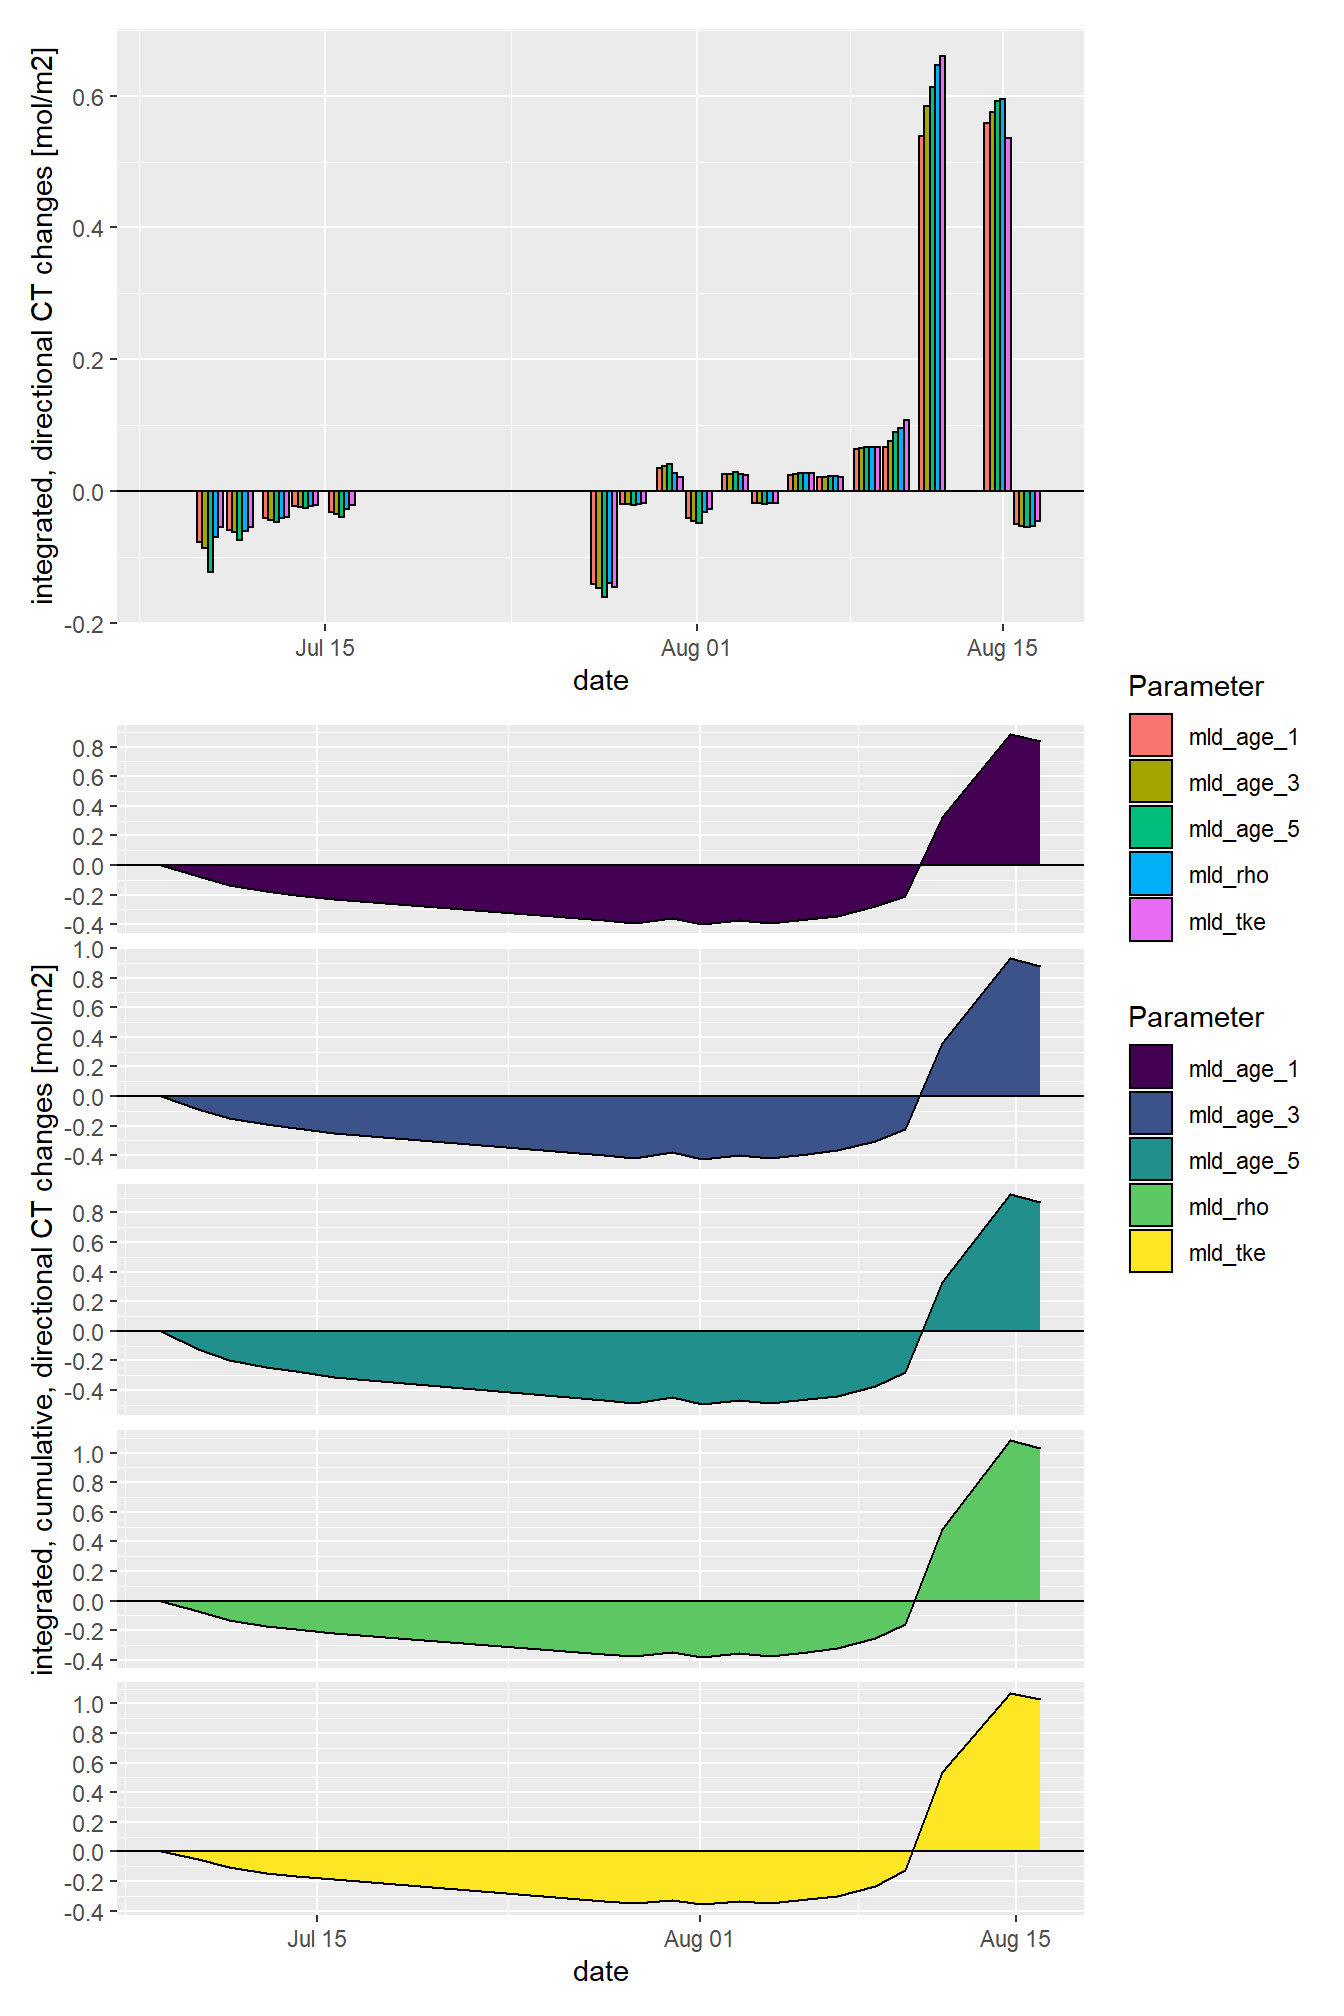
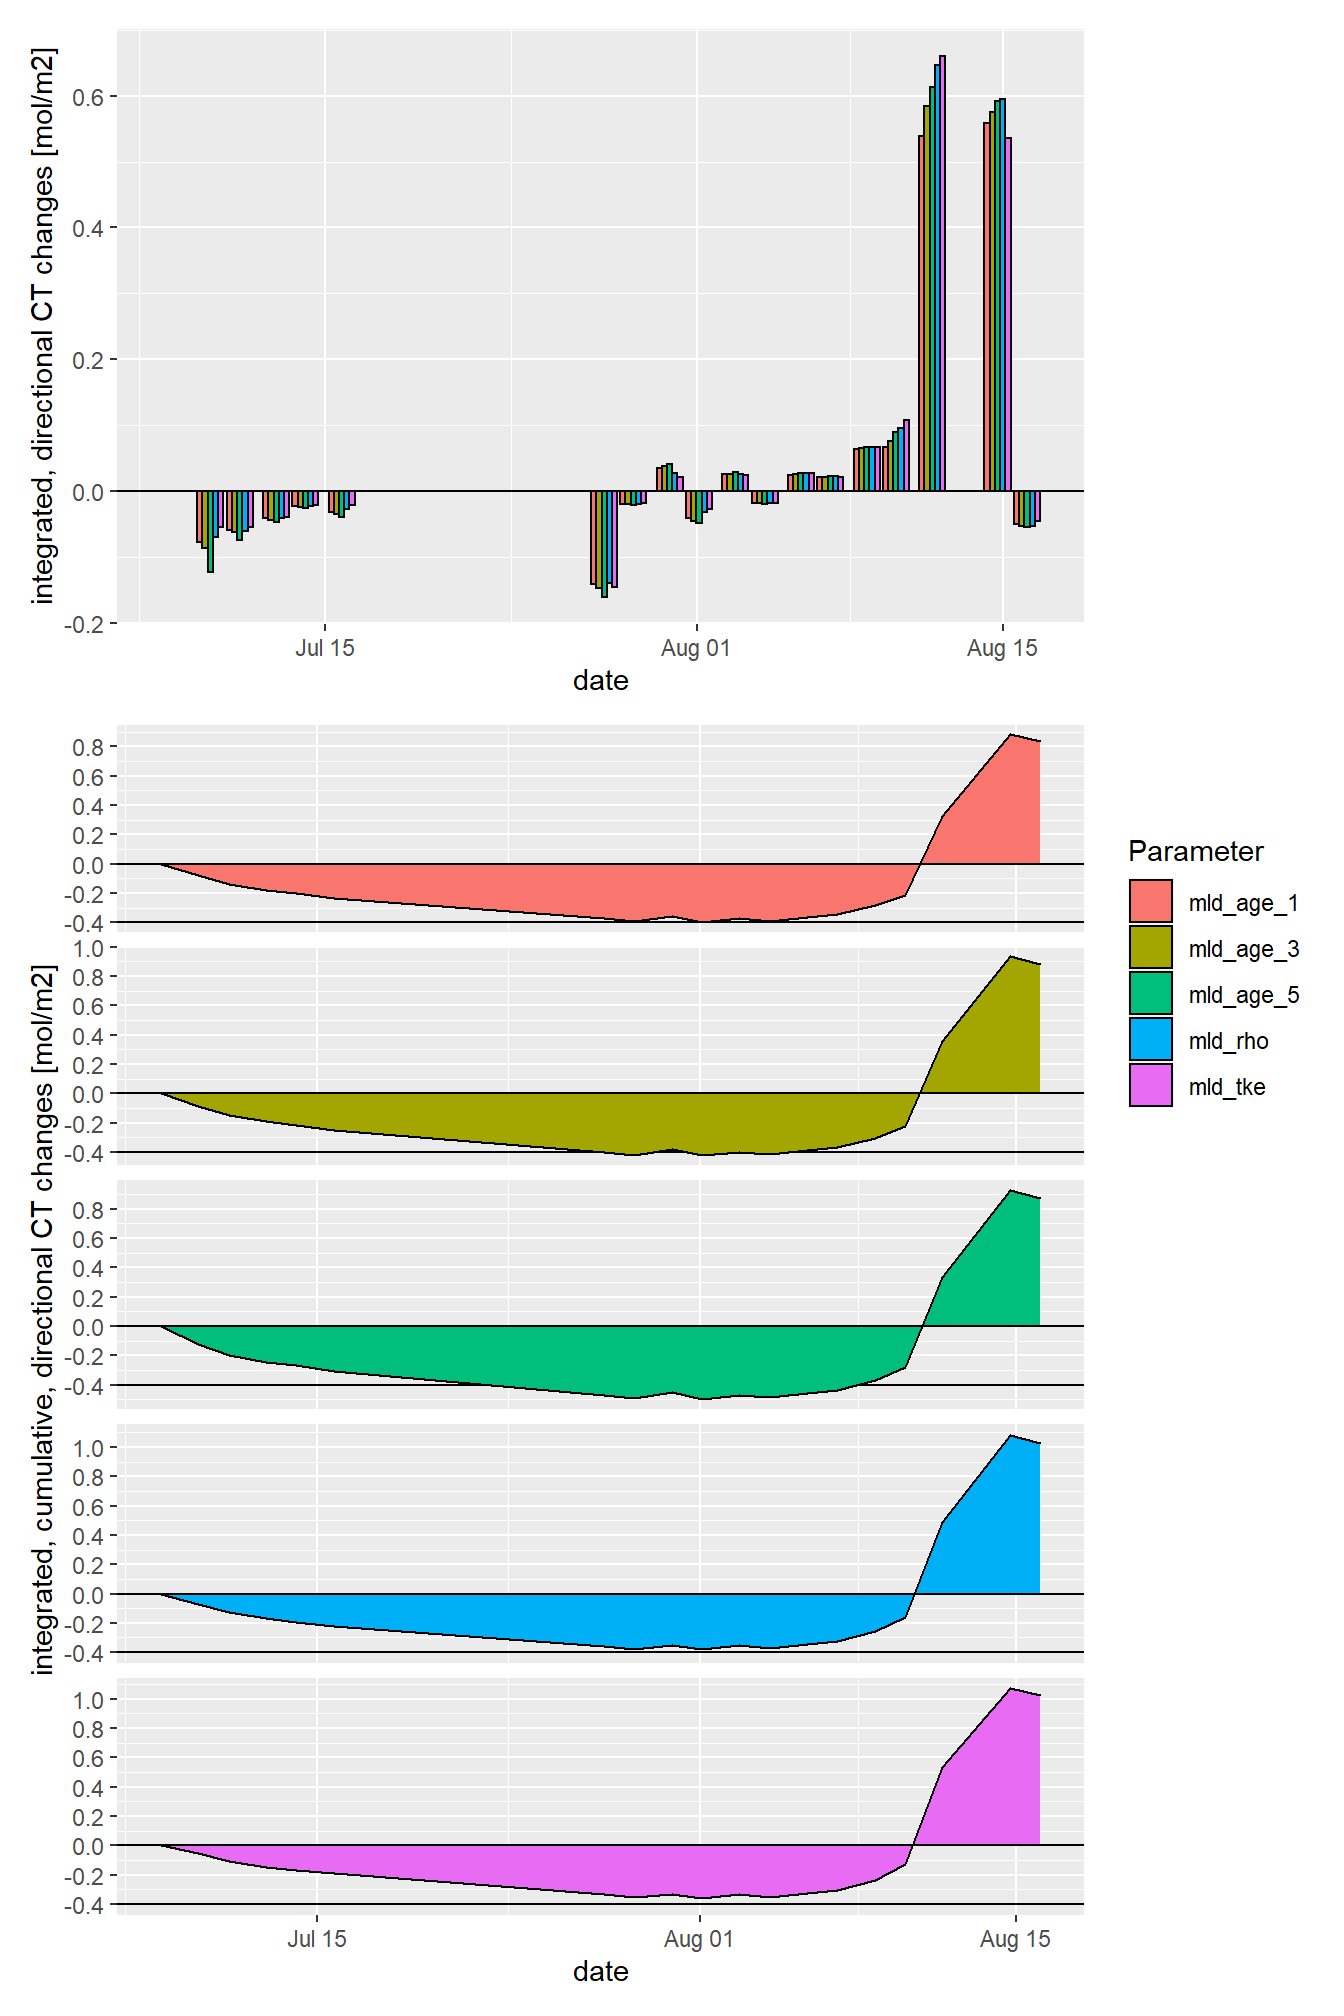
Build site.

diff --git a/docs/Finnmaid+GETM.html b/docs/Finnmaid+GETM.html
@@ -560,10 +560,10 @@ This reproducible <a href="http://rmarkdown.rstudio.com">R Markdown</a> analysis
 <div class="panel panel-default">
 <div class="panel-heading">
 <p class="panel-title">
-<a data-toggle="collapse" data-parent="#workflowr-checks" href="#strongRepositoryversionstrongahrefhttpsgithubcomjensdanielmuellerBloomSailtree5f33d21b9a22a1074537c1c3e4600f842a6c1a98targetblank5f33d21a"> <span class="glyphicon glyphicon-ok text-success" aria-hidden="true"></span> <strong>Repository version:</strong> <a href="https://github.com/jens-daniel-mueller/BloomSail/tree/5f33d21b9a22a1074537c1c3e4600f842a6c1a98" target="_blank">5f33d21</a> </a>
+<a data-toggle="collapse" data-parent="#workflowr-checks" href="#strongRepositoryversionstrongahrefhttpsgithubcomjensdanielmuellerBloomSailtree9e0c0d7d35bd36513864d62c569db3508e6478b8targetblank9e0c0d7a"> <span class="glyphicon glyphicon-ok text-success" aria-hidden="true"></span> <strong>Repository version:</strong> <a href="https://github.com/jens-daniel-mueller/BloomSail/tree/9e0c0d7d35bd36513864d62c569db3508e6478b8" target="_blank">9e0c0d7</a> </a>
 </p>
 </div>
[2 lines of base64/hex data omitted]
 <div class="panel-body">
 <p>
 Great! You are using Git for version control. Tracking code development and connecting the code version to the results is critical for reproducibility. The version displayed above was the version of the Git repository at the time these results were generated. <br><br> Note that you need to be careful to ensure that all relevant files for the analysis have been committed to Git prior to generating the results (you can use <code>wflow_publish</code> or <code>wflow_git_commit</code>). workflowr only checks the R Markdown file, but you know if there are other scripts or data files that it depends on. Below is the status of the Git repository when the results were generated:
@@ -1052,9 +1052,9 @@ NCP_MLD %&gt;%
 p_iNCPcum &lt;-  NCP_MLD %&gt;% 
   ggplot(aes(date_time,  NCP_cum, 
              fill= Parameter))+
+  geom_hline(yintercept = -0.4)+
   geom_area(position = &quot;identity&quot;, col=&quot;black&quot;)+
   geom_hline(yintercept = 0)+
-  scale_fill_viridis_d()+
   scale_y_continuous(breaks = seq(-100, 100, 0.2))+
   facet_grid(Parameter~., scales = &quot;free_y&quot;, space = &quot;free_y&quot;)+
   theme(strip.background = element_blank(),
